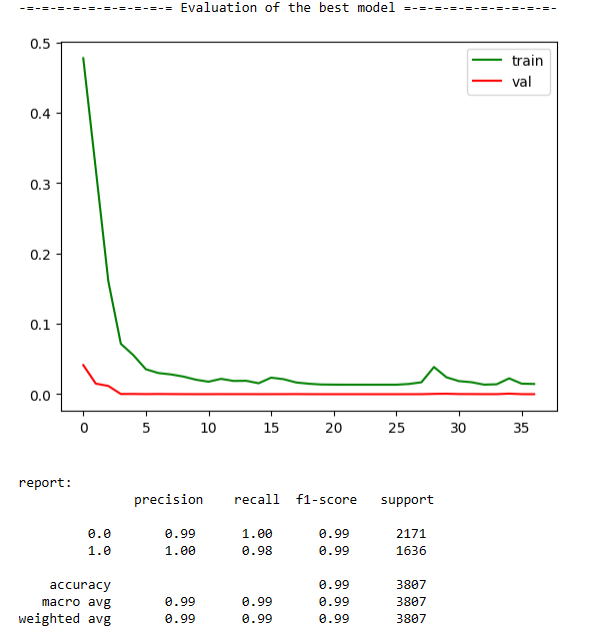
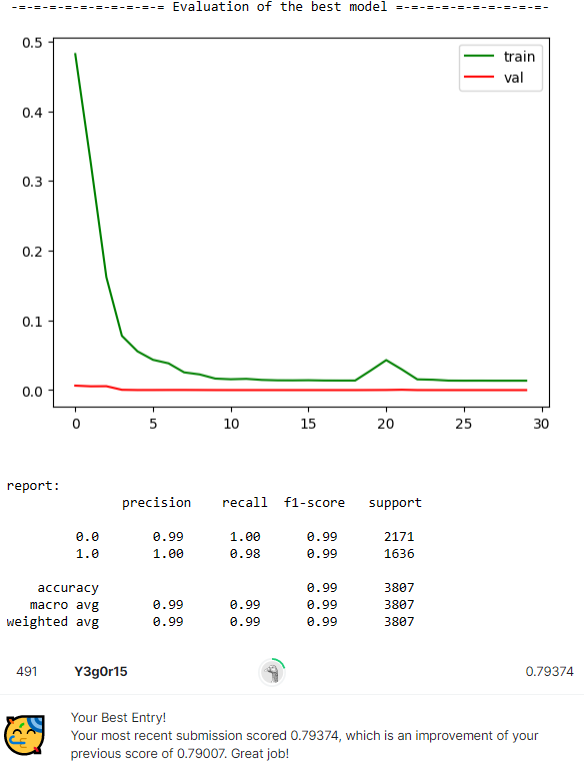
обновлён 2 эксп теперь через мультисэмплдропаут плюс выход на 491 LB кагла

diff --git a/README.md b/README.md
@@ -21,27 +21,31 @@
 
 ![](./learning_research/exp_1.png)  
 
-### 2. bert-base-uncased(gradiens of first 10l=false and 11l=true)+5_dropouts+fc+sigmoid
+### 2. bert-base-uncased(gradiens of first 10l=false and 11l=true)+multisample+fc+sigmoid
 
 
     class NerualNet(nn.Module):
-        def __init__(self, hidden_size=768, num_class=1):
+        def __init__(self, hidden_size=768, num_class=2):
             super(NerualNet, self).__init__()
 
-            self.bert = BertModel.from_pretrained('bert-base-uncased')
-            for layer in self.bert.encoder.layer[:11]:
-                for param in layer.parameters():
-                        param.requires_grad = False
-            self.dropouts = nn.ModuleList([
-                nn.Dropout(0.5) for _ in range(5)
-            ])
-            self.fc = nn.Linear(hidden_size, num_class)
-            self.sigm = nn.Sigmoid()
-            
-        def forward(self,input_ids,input_mask,segment_ids):
-            bert_output = self.bert(input_ids, token_type_ids=segment_ids, attention_mask=input_mask)
-            output = self.fc(bert_output[1].squeeze())
-            y_pred = self.sigm(output).squeeze()
-            return y_pred
+        self.bert = BertModel.from_pretrained('bert-base-uncased')
+        for layer in self.bert.encoder.layer[:11]:
+            for param in layer.parameters():
+                    param.requires_grad = False
+        self.dropouts = nn.ModuleList([
+            nn.Dropout(0.5) for _ in range(5)
+        ])
+        self.fc = nn.Linear(hidden_size, num_class)
+        self.sigm = nn.Sigmoid()
+        
+    def forward(self,input_ids,input_mask,segment_ids):
+        bert_output = self.bert(input_ids, token_type_ids=segment_ids, attention_mask=input_mask)
+        for i, dropout in enumerate(self.dropouts):
+            if i == 0:
+                h = self.fc(dropout(bert_output[1].squeeze()))
+            else:
+                h += self.fc(dropout(bert_output[1].squeeze()))
+        return h / len(self.dropouts)
 
 ![](./learning_research/exp_2.png)
+
